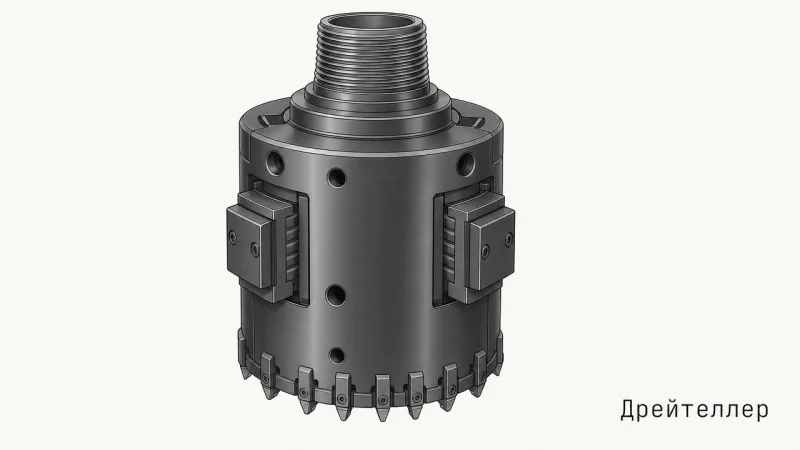
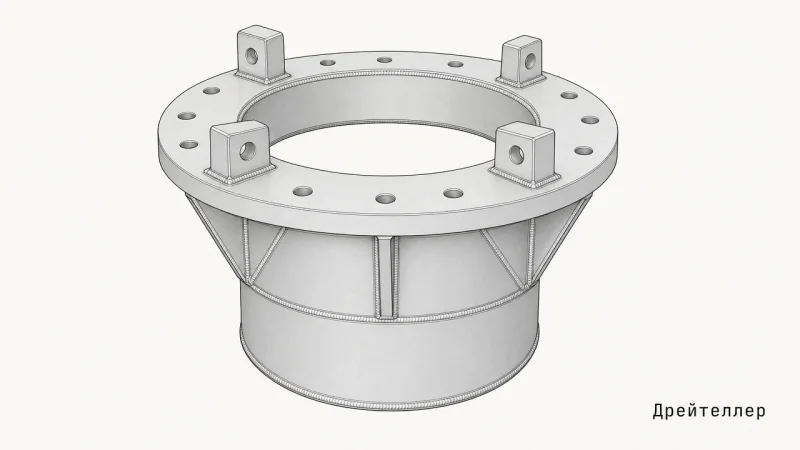
дрейтеллер: перерисован по референсу ankergeo.ru

diff --git a/index.html b/index.html
@@ -565,7 +565,7 @@ section{position:relative;z-index:1}
     <div class="cc"><div class="cci"><img src="images/tool-shnek.webp?v=1" alt="Шнеки" width="280" height="140" loading="lazy" decoding="async" style="width:100%;height:140px;object-fit:cover;border-radius:12px;margin-bottom:12px"><div class="model">Шнеки</div><div class="spec">Одно- и двухзаходные<br>ø520–1080 мм · 20 типоразмеров</div></div></div>
     <div class="cc"><div class="cci"><img src="images/tool-kovshebur.webp?v=1" alt="Ковшебур" width="280" height="140" loading="lazy" decoding="async" style="width:100%;height:140px;object-fit:cover;border-radius:12px;margin-bottom:12px"><div class="model">Ковшебуры</div><div class="spec">Одно- и двухзаходные<br>ø520–1080 мм · 20 типоразмеров</div></div></div>
     <div class="cc"><div class="cci"><img src="images/tool-cfa.webp?v=1" alt="CFA" width="280" height="140" loading="lazy" decoding="async" style="width:100%;height:140px;object-fit:cover;border-radius:12px;margin-bottom:12px"><div class="model">CFA шнеки</div><div class="spec">Непрерывный полый шнек<br>ø350–600 мм × 3/6 м</div></div></div>
-    <div class="cc"><div class="cci"><img src="images/tool-dreiteller.webp?v=3" alt="Дрейтеллер" width="280" height="140" loading="lazy" decoding="async" style="width:100%;height:140px;object-fit:cover;border-radius:12px;margin-bottom:12px"><div class="model">Дрейтеллеры</div><div class="spec">6 типоразмеров<br>ø620–1200 мм</div></div></div>
+    <div class="cc"><div class="cci"><img src="images/tool-dreiteller.webp?v=4" alt="Дрейтеллер" width="280" height="140" loading="lazy" decoding="async" style="width:100%;height:140px;object-fit:cover;border-radius:12px;margin-bottom:12px"><div class="model">Дрейтеллеры</div><div class="spec">6 типоразмеров<br>ø620–1200 мм</div></div></div>
     <div class="cc"><div class="cci"><img src="images/tool-tremie.webp?v=1" alt="Бетонолит" width="280" height="140" loading="lazy" decoding="async" style="width:100%;height:140px;object-fit:cover;border-radius:12px;margin-bottom:12px"><div class="model">Бетонолитные трубы</div><div class="spec">ø194, 219, 250 мм × 2 м</div></div></div>
     <div class="cc"><div class="cci"><img src="images/tool-kelly.webp?v=2" alt="Келли" width="280" height="140" loading="lazy" decoding="async" style="width:100%;height:140px;object-fit:cover;border-radius:12px;margin-bottom:12px"><div class="model">Келли-штанги</div><div class="spec">Фрикционные и замковые<br>до 4 секций × 36 м</div></div></div>
   </div>
